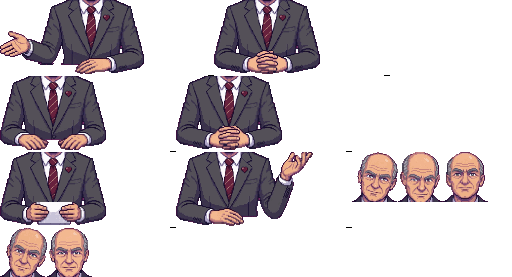
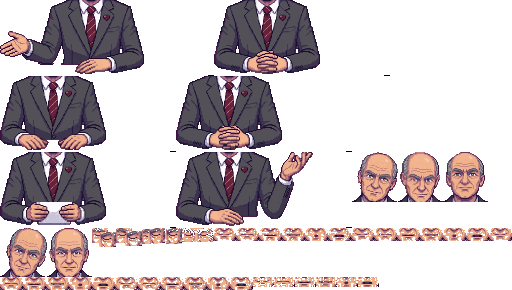
Seated test page, and the seated sheets now bake mouths and blinks (face patch boxes) (#78)

diff --git a/site/public/test/seated.html b/site/public/test/seated.html
@@ -1,0 +1,55 @@
+<!doctype html>
+<html lang="en">
+<head>
+<meta charset="utf-8" />
+<meta name="viewport" content="width=device-width,initial-scale=1" />
+<title>Hearts News 24 — seated Isla and Fraser test</title>
+<style>
+  html, body { margin: 0; height: 100%; background: #0e0c10; overflow: hidden; font: 13px system-ui, sans-serif; color: #f2efe6; }
+  #stage { position: fixed; inset: 0; display: grid; place-items: center; }
+  canvas { display: block; width: min(100vw, 100vh * 16 / 9); aspect-ratio: 16 / 9; image-rendering: pixelated; }
+  #hud { position: fixed; left: 12px; top: 10px; line-height: 1.6; background: #0e0c10cc; padding: 6px 10px; border-radius: 4px; }
+  #hud b { color: #e0b13a; font-weight: 600; }
+</style>
+</head>
+<body>
+<div id="stage"><canvas id="cv"></canvas></div>
+<div id="hud"></div>
+<script type="module">
+// Seated Isla and Fraser from the baked sheets (#78): every head, desk pose, mouth and the blink, at the grid they were made on. The desk is drawn first, so the hands sit in front of it.
+const { loadPresenter } = await import('./presenter-player.js');
+const GW = 480, GH = 270;
+const [ISLA, FRA] = await Promise.all([loadPresenter('../presenters/isla-seated'), loadPresenter('../presenters/fraser-seated')]);
+const HEADS = ISLA.heads, POSES = ISLA.poses, MOUTHS = ['rest', ...ISLA.mouths];
+const cv = document.getElementById('cv'); cv.width = GW; cv.height = GH;
+const g = cv.getContext('2d'); g.imageSmoothingEnabled = false;
+const st = { head: 0, pose: 0, mouth: 0, auto: true, blink: 0, ms: 0 };
+const hud = document.getElementById('hud');
+const q = new URLSearchParams(location.search);
+if (q.has('head')) st.head = Math.max(0, HEADS.indexOf(q.get('head'))), st.auto = false;
+if (q.has('pose')) st.pose = Math.max(0, POSES.indexOf(q.get('pose'))), st.auto = false;
+if (q.has('mouth')) st.mouth = Math.max(0, MOUTHS.indexOf(q.get('mouth'))), st.auto = false;
+addEventListener('keydown', e => {
+  const k = e.key.toLowerCase();
+  if (k === 'h') st.head = (st.head + 1) % HEADS.length, st.auto = false;
+  else if (k === 'p') st.pose = (st.pose + 1) % POSES.length, st.auto = false;
+  else if (k === 'm') st.mouth = (st.mouth + 1) % MOUTHS.length, st.auto = false;
+  else if (k === 'b') st.blink = performance.now() + 160;
+  else if (k === 'a') st.auto = true;
+});
+const DESK_Y = 100 + 105;   // handsTop: the desk edge sits at the first hands row
+function tick(ms) {
+  if (st.auto) { const s = Math.floor(ms / 1200); st.head = s % HEADS.length; st.pose = Math.floor(s / 2) % POSES.length; st.mouth = Math.floor(ms / 220) % MOUTHS.length; }
+  const blinking = ms < st.blink || (ms % 3600) > 3480;
+  g.fillStyle = '#1b1f3a'; g.fillRect(0, 0, GW, GH);
+  g.fillStyle = '#6d1a2a'; g.fillRect(0, 0, GW, DESK_Y - 4);
+  g.fillStyle = '#8a8d99'; g.fillRect(0, DESK_Y, GW, GH - DESK_Y); g.fillStyle = '#4a4d59'; g.fillRect(0, DESK_Y, GW, 1);
+  const o = { head: HEADS[st.head], pose: POSES[st.pose], eye: blinking ? 'blink' : 'open', mouth: MOUTHS[st.mouth] };
+  g.drawImage(FRA.frame(o), -10, 100); g.drawImage(ISLA.frame(o), 250, 100);
+  hud.innerHTML = `<b>head</b> ${o.head} (H) &nbsp; <b>pose</b> ${o.pose} (P) &nbsp; <b>mouth</b> ${o.mouth} (M) &nbsp; blink (B) &nbsp; auto (A)${st.auto ? ' — on' : ''}<br>URL: ?head=h3&amp;pose=d2&amp;mouth=O`;
+  requestAnimationFrame(tick);
+}
+requestAnimationFrame(tick);
+</script>
+</body>
+</html>
